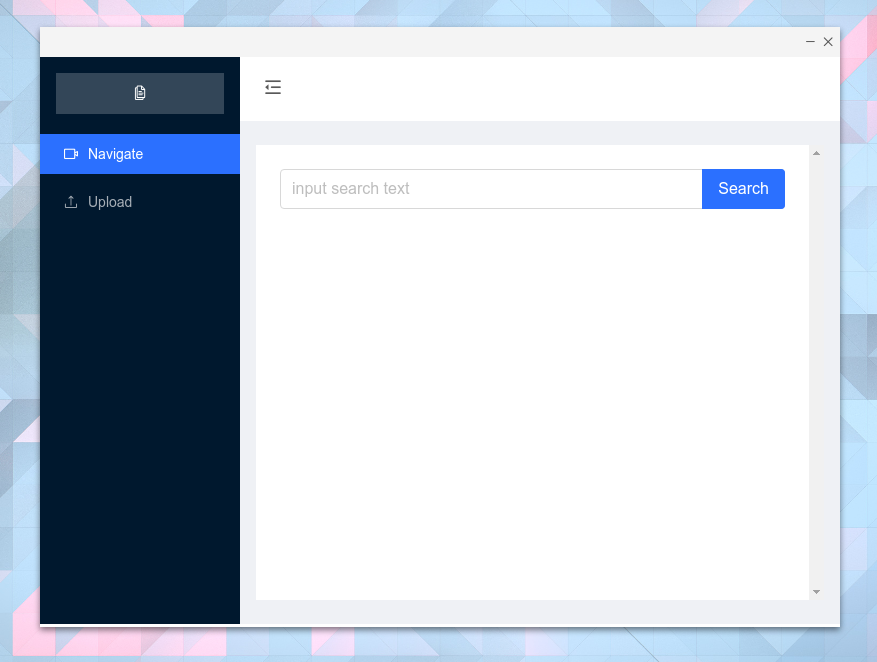
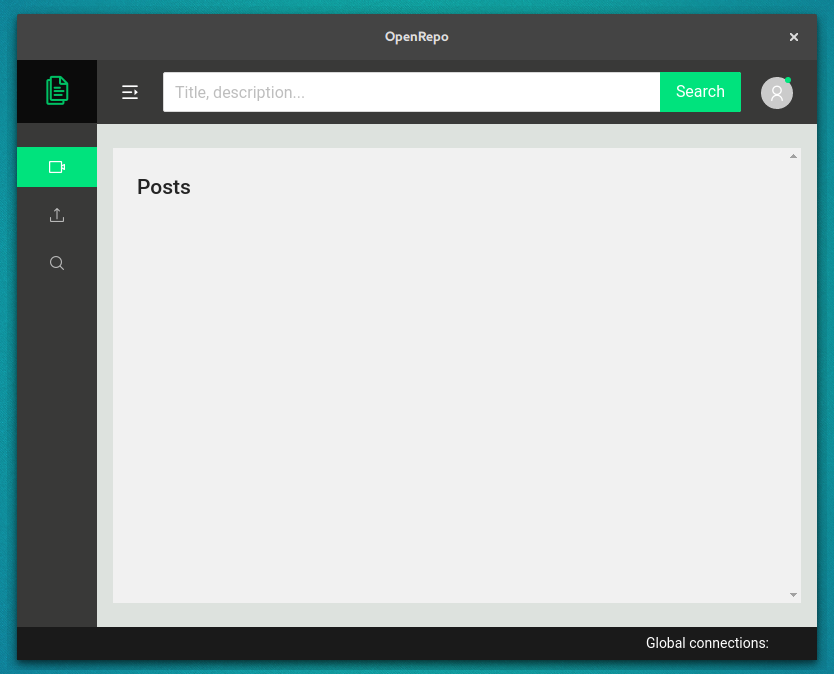
Update screenshot

diff --git a/src/App.js b/src/App.js
@@ -53,7 +53,7 @@ class App extends Component {
                   <SearchBar />
                   <UserState />
                 </Header>
-                <Content style={{ overflowY: 'scroll', margin: '24px 16px', padding: 24, background: '#fff', height: 'calc( 100vh - 145px)' }}>
+                <Content style={{ overflowY: 'scroll', margin: '24px 16px', padding: 24, height: 'calc( 100vh - 145px)' }}>
                   <RepoRouter history={history} />
                 </Content>
               </Layout>

diff --git a/src/App.css b/src/App.css
@@ -7,6 +7,14 @@ body {
   text-align: center;
 }
 
+.ant-layout {
+  background: #dfe2df;
+}
+
+.ant-layout-content {
+  background: rgba(241, 241, 241, 1)
+}
+
 .ant-layout-header {
   background: #363635;
   color: #fff;
